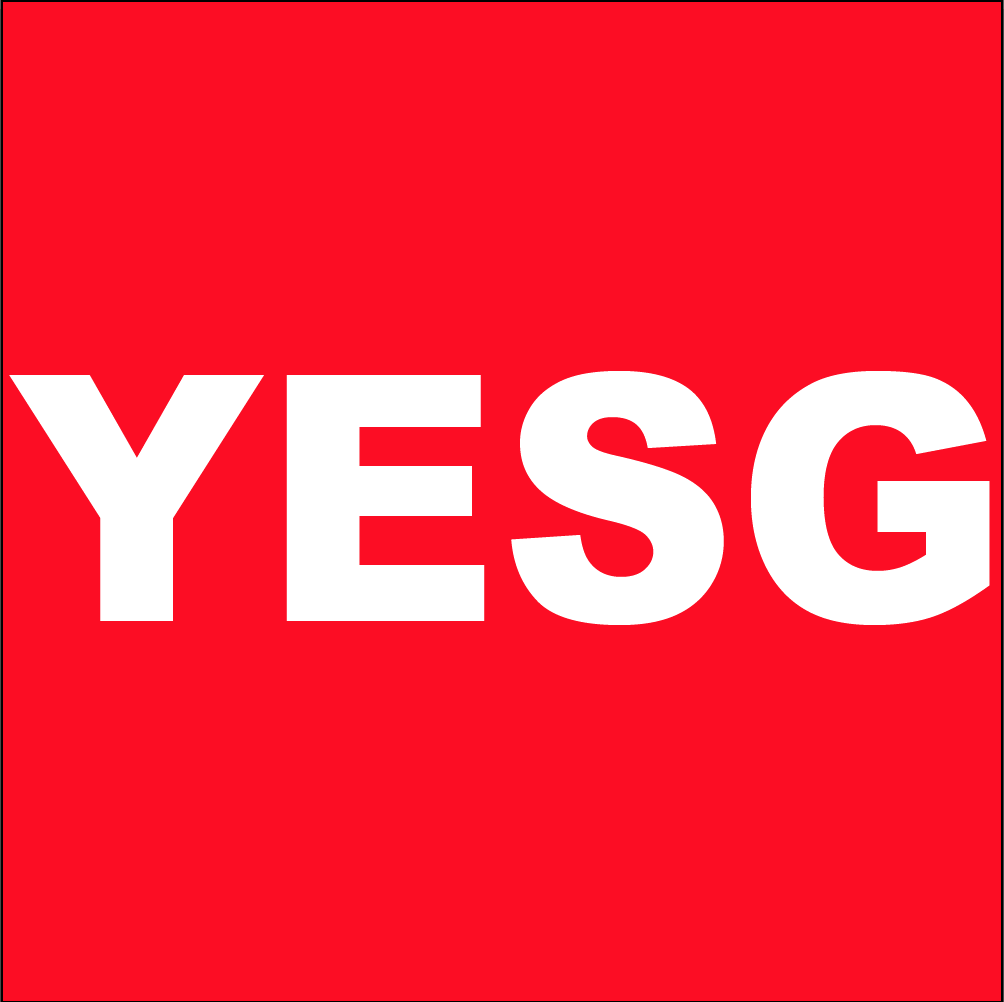
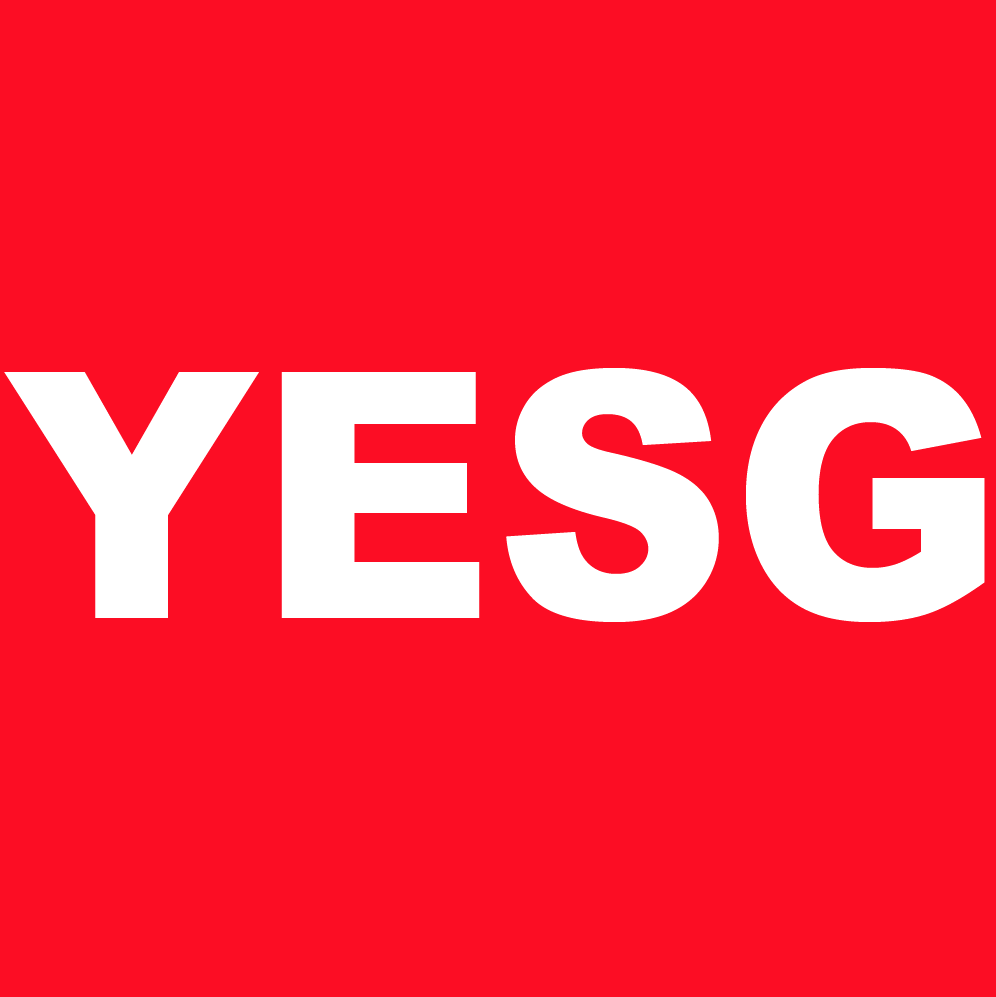
PNG to render more nicely and cropped image a bit

diff --git a/index.html b/index.html
@@ -40,7 +40,7 @@
   <div class="container">
     <section class="header">
       
-      <img class="prof-pic" src="public/yesg.svg" />
+      <img class="prof-pic" src="public/yesg.png" />
 
       <h1 class="title">Young Entrepreneurs for Social Good</h1>
       <div class="value-props row mobile-links">
